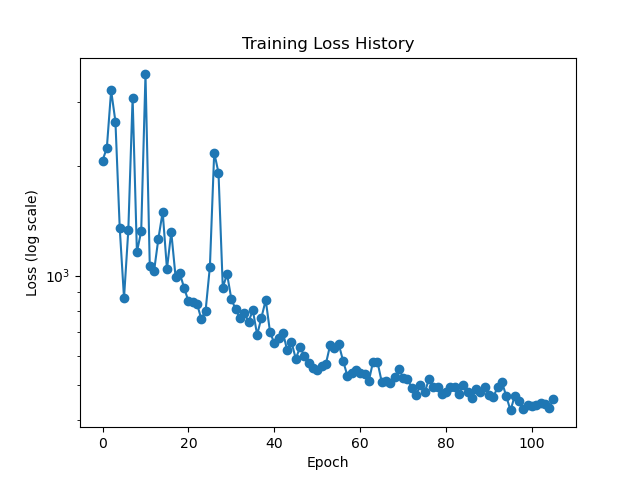
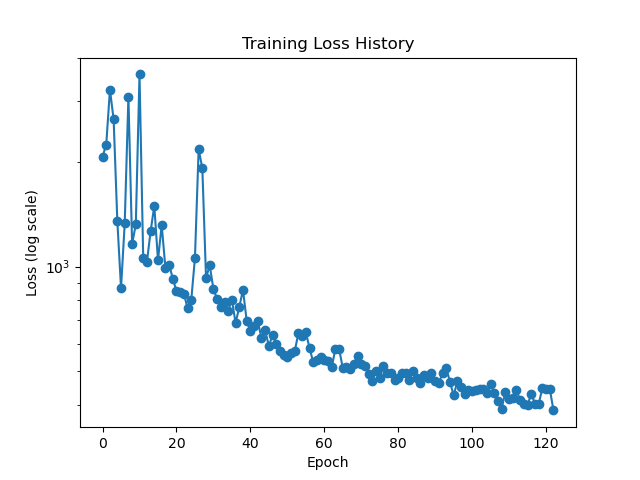
2503101037

diff --git a/250309/nivolumab.py b/250309/nivolumab.py
@@ -21,7 +21,7 @@ BATCH_SIZE = 128
 NUM_WORKERS = 8
 
 PIN_MEMORY = True
-LEARNING_RATE = 2e-3
+LEARNING_RATE = 1e-4
 STATIC_INPUT_DIM = 7
 STATIC_HIDDEN_DIM = 16
 ODE_HIDDEN_DIM = 16
